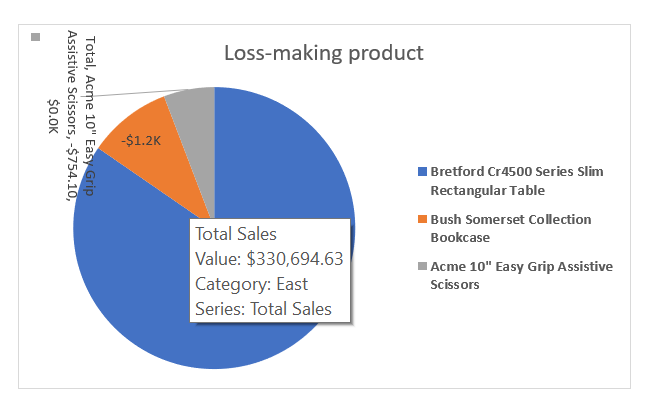
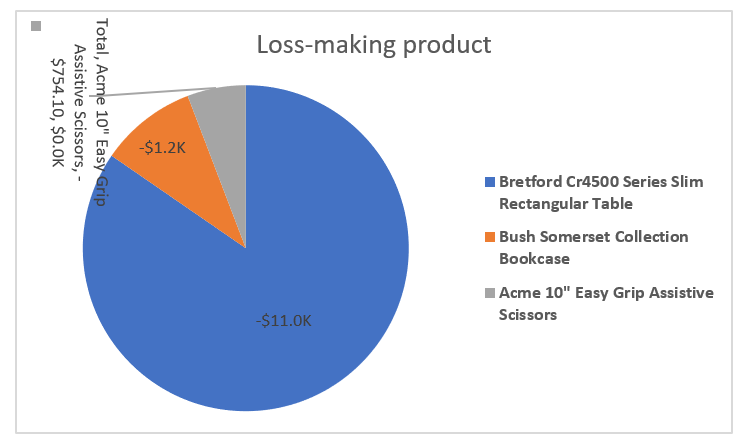
Fresh update: renamed xlsx, added Dashboard folder, updated images and README

diff --git a/README.md b/README.md
@@ -3,7 +3,53 @@
 ## 👥 Team: Analytics Avengers
 
 ## 🛠️ Tools Used
-- Microsoft Excel (Pivot Tables & Pivot Charts)
+- Microsoft Excel (Microsoft Excel, Power Query Editor, Pivot Tables & Pivot Charts)
+
+## 📌 Summary
+
+This project is a comprehensive sales analysis of a Superstore dataset covering the period 2014 to 2017. The analysis was carried out using Microsoft Excel, Power Query Editor, Pivot Tables & Pivot Charts. 
+
+The dataset was structured across multiple sheets:
+
+### Main Order
+The original dataset containing all uncleaned sales records. This was cleaned and transformed to produce the Fact Order 
+and all Dimension tables.
+
+
+
+![Main Order](images/mainorder.png)
+
+### Fact Order
+Main transaction data containing all sales records
+
+![Fact Order](images/factorder.png)
+
+
+
+### Dim Customer
+Customer details including names and segments
+
+![Dim Customer](images/dimcustomer.png)
+
+
+
+### Dim Product
+Product information including category and sub-category
+
+![Dim Product](images/dimproduct.png)
+
+
+### Dim Ship
+Shipping details including ship mode and dates
+
+![Dim Ship](images/dimship.png)
+
+
+### Dim Geography
+Location and regional data
+
+![Dim Geography](images/dimgeography.png)
+
 
 ## 💡 Insights from Analysis
 
@@ -62,6 +108,16 @@
 ![Loss-making Products](images/lossmakingproduct.png)
 
 
+## 📊 Dashoboard
+The dashboard below provides a visual summary of all key metrics and findings from the analysis.
+
+![Dashboard](dashboard/dashboard1.png)
+![](dashboard/dashboard2.png)
+
+
+
+
+
 ## ✅ Recommendations
 
 - Furniture category should be reviewed — consider repricing or discontinuing low-margin products to reduce profit leakage.
@@ -73,7 +129,8 @@
 
 ## 📝 Conclusion
 
-This analysis reveals that while the Superstore business is growing steadily from 2014 to 2017, there are clear areas of profit leakage particularly in the Furniture category. Technology remains the strongest performer across 
+This analysis reveals that while the Superstore business is growing steadily from 2014 to 2017, there are clear areas of profit leakage particularly in the Furniture category. 
+Technology remains the strongest performer across 
 all metrics. 
 With the right pricing strategy and regional focus, the business has strong potential for even greater profitability.
 